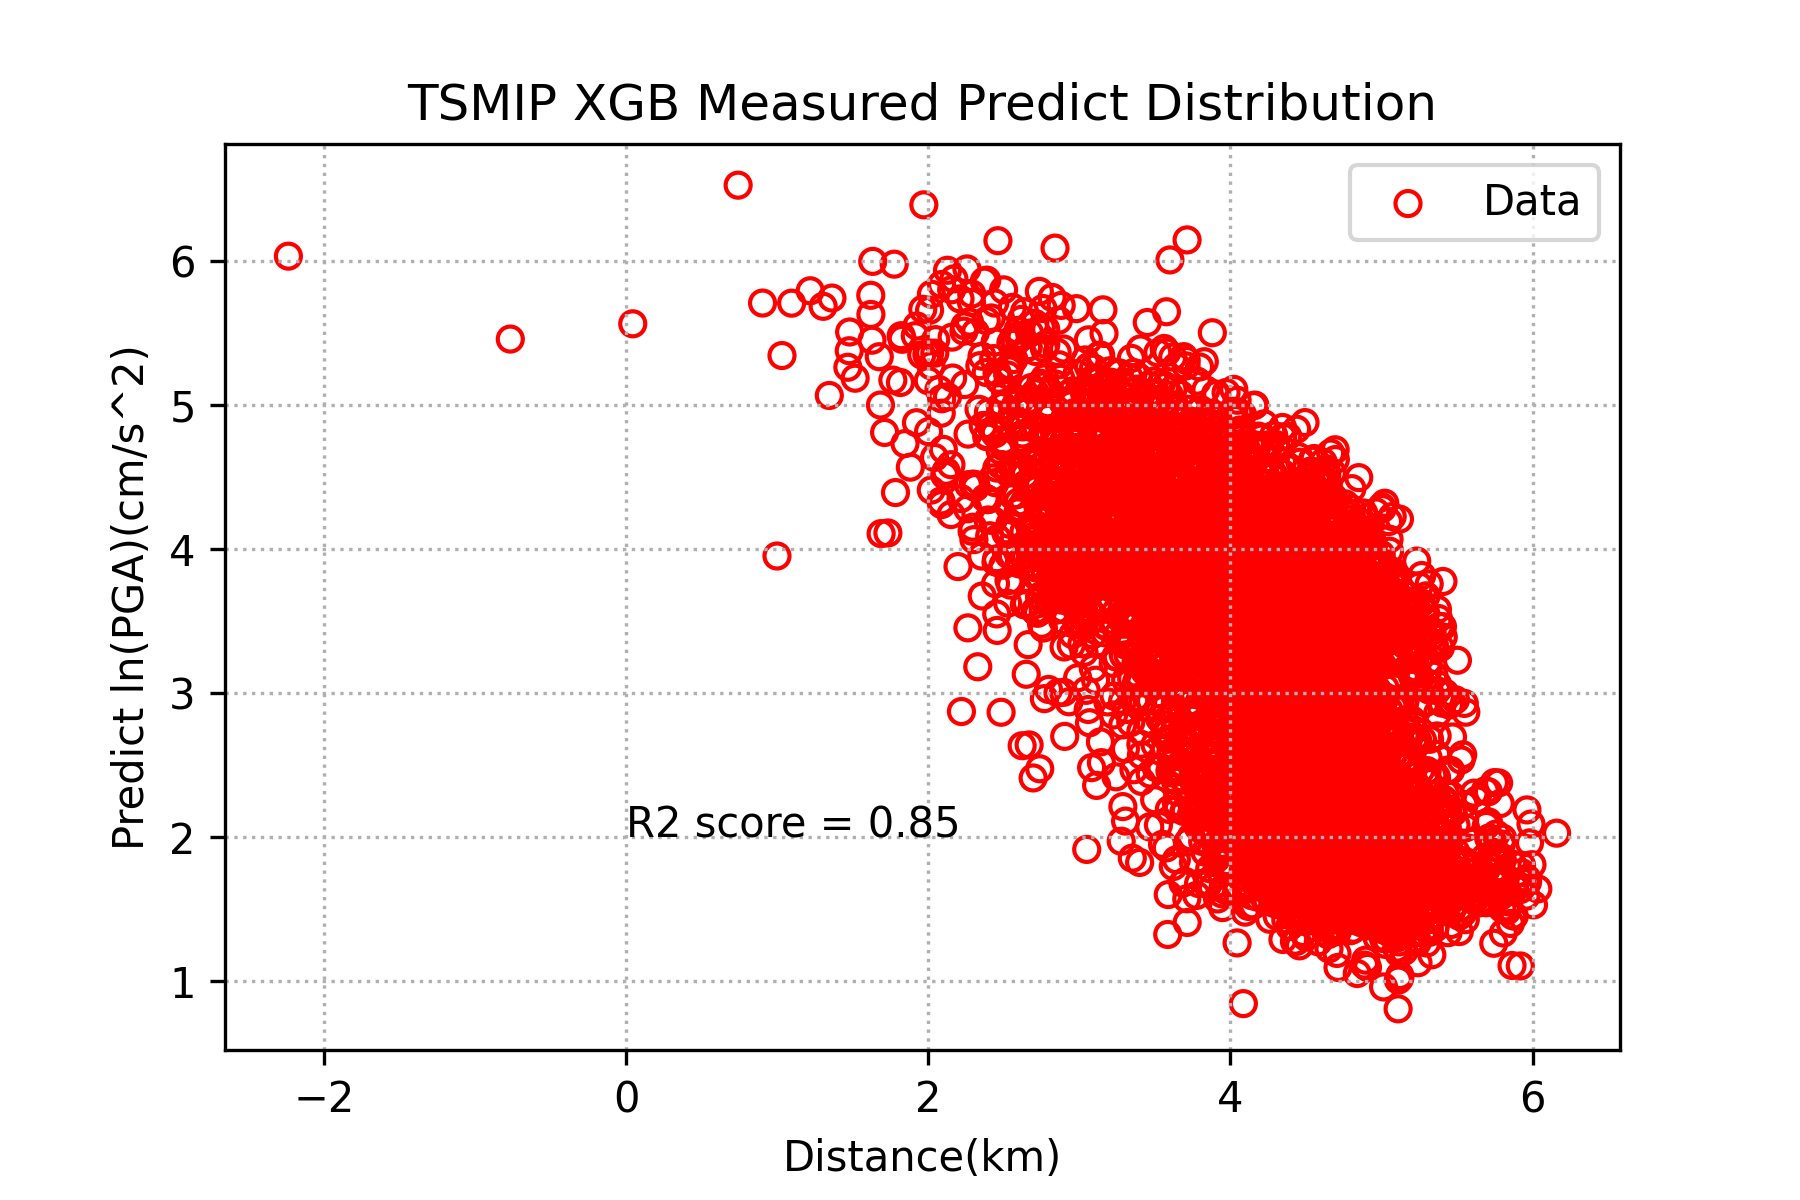
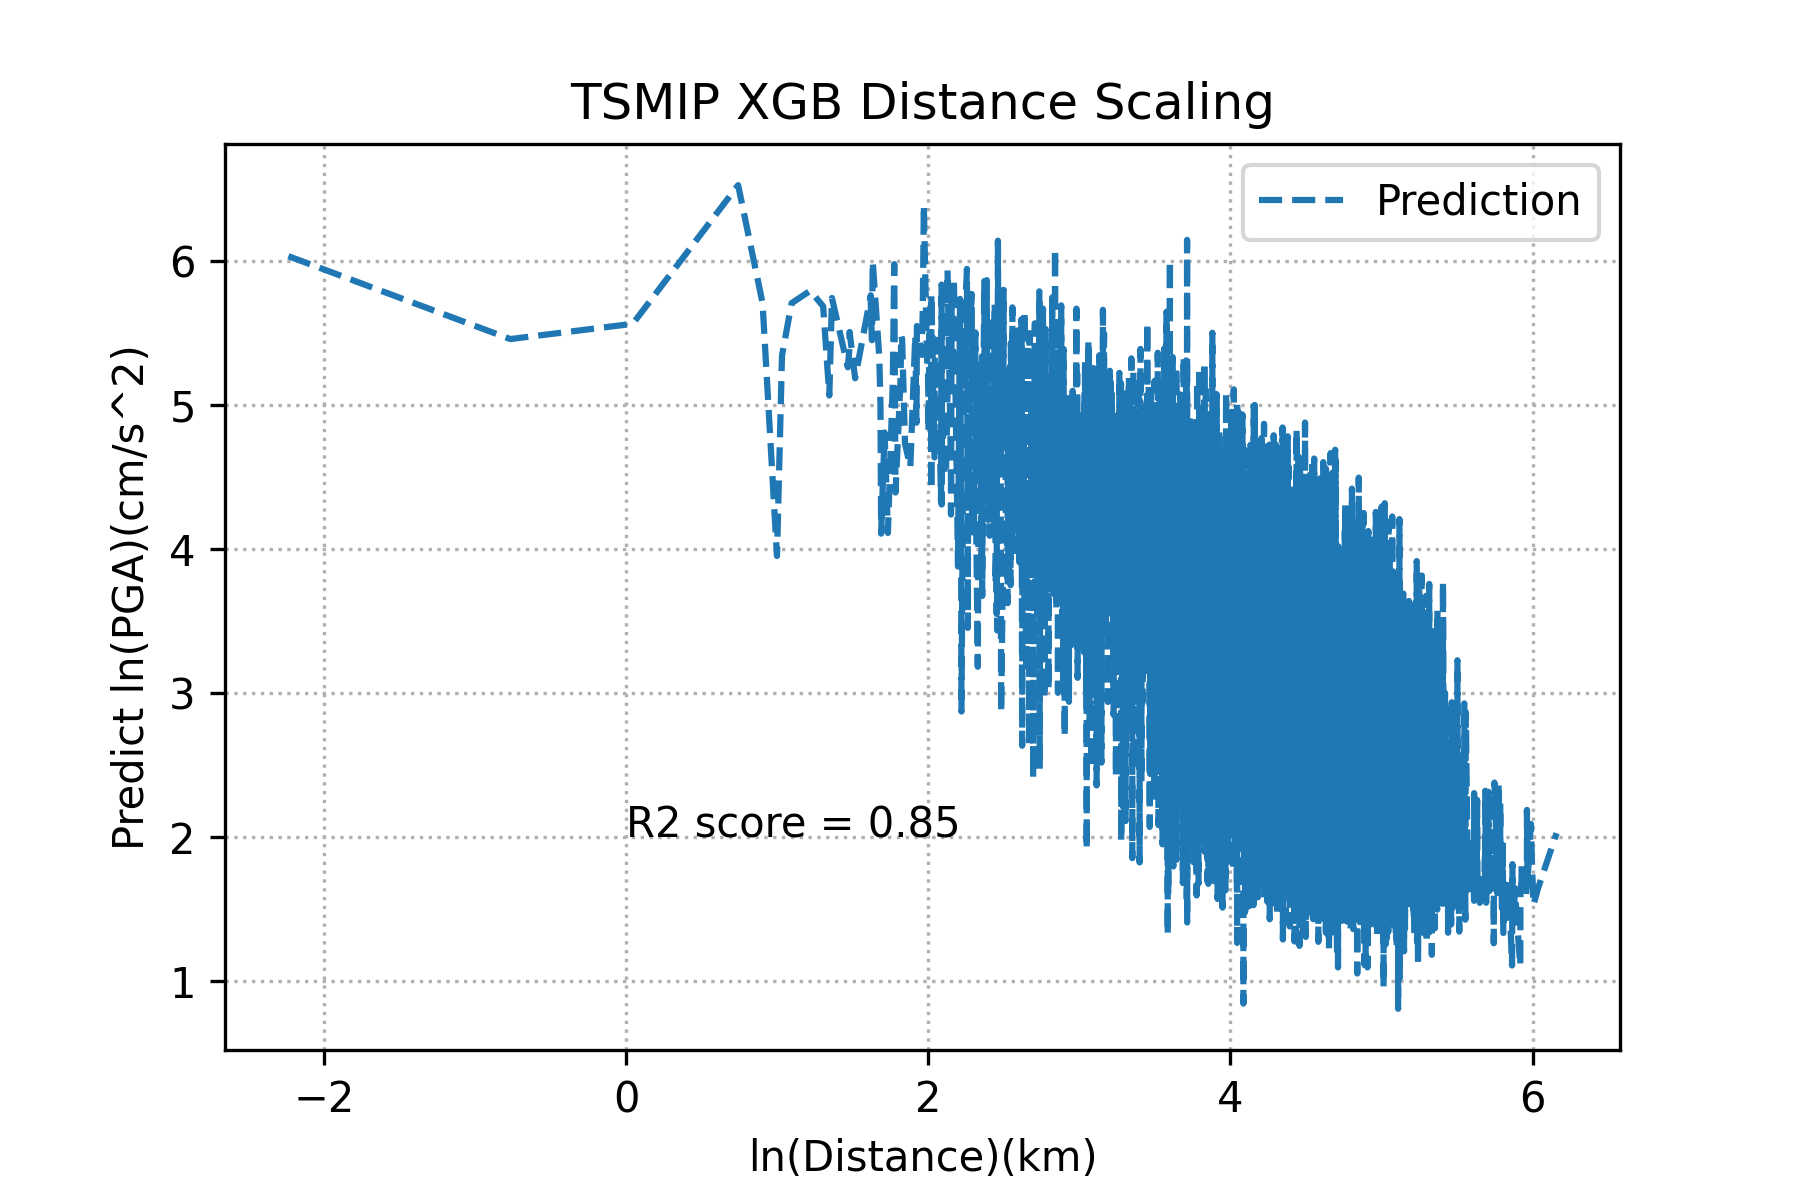
line distance scaling

diff --git a/machine_learning/design_pattern/plot_figure.py b/machine_learning/design_pattern/plot_figure.py
@@ -8,17 +8,20 @@ import sys
 sys.path.append("..")
 from design_pattern.process_train import dataprocess
 
+
 class plot_fig:
+
     def __init__(self, model_name, abbreviation_name, SMOGN_TSMIP):
         self.model_name = model_name
         self.abbreviation_name = abbreviation_name
         self.SMOGN_TSMIP = SMOGN_TSMIP
 
-    def train_test_distribution(self, x_test, y_test, predict_value, fit_time, score):
+    def train_test_distribution(self, x_test, y_test, predict_value, fit_time,
+                                score):
 
-    ######################### trainsubset & testsubset distribution #########################
+        ######################### trainsubset & testsubset distribution #########################
 
-    # 畫 Vs30 and randomForest_predict 關係圖
+        # 畫 Vs30 and randomForest_predict 關係圖
         plt.grid(linestyle=':')
         plt.scatter(x_test[:, 0],
                     y_test,
@@ -32,10 +35,12 @@ class plot_fig:
         plt.ylabel(f'{self.model_name} Predict')
         plt.title(f'{self.model_name}')
         plt.legend()
-        plt.savefig(f'../{self.abbreviation_name}/{self.SMOGN_TSMIP} Vs30-{self.abbreviation_name} Predict.png', dpi=300)
+        plt.savefig(
+            f'../{self.abbreviation_name}/{self.SMOGN_TSMIP} Vs30-{self.abbreviation_name} Predict.png',
+            dpi=300)
         plt.show()
 
-    # 畫 Mw and randomForest_predict 關係圖
+        # 畫 Mw and randomForest_predict 關係圖
         plt.grid(linestyle=':')
         plt.scatter(x_test[:, 1],
                     y_test,
@@ -49,10 +54,12 @@ class plot_fig:
         plt.ylabel(f'{self.model_name} Predict')
         plt.title(f'{self.model_name}')
         plt.legend()
-        plt.savefig(f'../{self.abbreviation_name}/{self.SMOGN_TSMIP} Mw-{self.abbreviation_name} Predict.png', dpi=300)
+        plt.savefig(
+            f'../{self.abbreviation_name}/{self.SMOGN_TSMIP} Mw-{self.abbreviation_name} Predict.png',
+            dpi=300)
         plt.show()
 
-    # 畫 Rrup and randomForest_predict 關係圖
+        # 畫 Rrup and randomForest_predict 關係圖
         plt.grid(linestyle=':')
         plt.scatter(x_test[:, 2],
                     y_test,
@@ -66,14 +73,16 @@ class plot_fig:
         plt.ylabel(f'{self.model_name} Predict')
         plt.title(f'{self.model_name}')
         plt.legend()
-        plt.savefig(f'../{self.abbreviation_name}/{self.SMOGN_TSMIP} Rrup-{self.model_name} Predict.png', dpi=300)
+        plt.savefig(
+            f'../{self.abbreviation_name}/{self.SMOGN_TSMIP} Rrup-{self.model_name} Predict.png',
+            dpi=300)
         plt.show()
 
     def residual(self, x_test, y_test, predict_value, score):
-        
-    ######################### residual #########################
 
-    # 1. 計算Vs30_residual
+        ######################### residual #########################
+
+        # 1. 計算Vs30_residual
         residual = predict_value - y_test
         residual_121 = []
         residual_199 = []
@@ -111,23 +120,27 @@ class plot_fig:
                     facecolors='none',
                     edgecolors='r')  #迴歸線
         plt.scatter([121, 199, 398, 794, 1000], [
-            residual_121_mean, residual_199_mean, residual_398_mean, residual_794_mean,
-            residual_1000_mean
+            residual_121_mean, residual_199_mean, residual_398_mean,
+            residual_794_mean, residual_1000_mean
         ],
                     marker='o',
                     facecolors='none',
                     edgecolors='b')
         plt.plot([121, 121], [
-            residual_121_mean + residual_121_std, residual_121_mean - residual_121_std
+            residual_121_mean + residual_121_std,
+            residual_121_mean - residual_121_std
         ], 'b')
         plt.plot([199, 199], [
-            residual_199_mean + residual_199_std, residual_199_mean - residual_199_std
+            residual_199_mean + residual_199_std,
+            residual_199_mean - residual_199_std
         ], 'b')
         plt.plot([398, 398], [
-            residual_398_mean + residual_398_std, residual_398_mean - residual_398_std
+            residual_398_mean + residual_398_std,
+            residual_398_mean - residual_398_std
         ], 'b')
         plt.plot([794, 794], [
-            residual_794_mean + residual_794_std, residual_794_mean - residual_794_std
+            residual_794_mean + residual_794_std,
+            residual_794_mean - residual_794_std
         ], 'b')
         plt.plot([1000, 1000], [
             residual_1000_mean + residual_1000_std,
@@ -138,11 +151,15 @@ class plot_fig:
         plt.ylim(-3, 3)
         plt.xlabel('Vs30(m/s)')
         plt.ylabel('Residual lnPGA(cm/s^2)')
-        plt.title(f'{self.SMOGN_TSMIP} {self.abbreviation_name} Predict Residual R2 score: %.3f' % (score))
-        plt.savefig(f'../{self.abbreviation_name}/{self.SMOGN_TSMIP} Vs30-{self.abbreviation_name} Predict Residual.png', dpi=300)
+        plt.title(
+            f'{self.SMOGN_TSMIP} {self.abbreviation_name} Predict Residual R2 score: %.3f'
+            % (score))
+        plt.savefig(
+            f'../{self.abbreviation_name}/{self.SMOGN_TSMIP} Vs30-{self.abbreviation_name} Predict Residual.png',
+            dpi=300)
         plt.show()
 
-    # 2. 計算Mw_residual
+        # 2. 計算Mw_residual
         residual = predict_value - y_test
         residual_3_5 = []
         residual_4_5 = []
@@ -176,32 +193,41 @@ class plot_fig:
                     facecolors='none',
                     edgecolors='r')  #迴歸線
         plt.scatter([3.5, 4.5, 5.5, 6.5], [
-            residual_3_5_mean, residual_4_5_mean, residual_5_5_mean, residual_6_5_mean
+            residual_3_5_mean, residual_4_5_mean, residual_5_5_mean,
+            residual_6_5_mean
         ],
                     marker='o',
                     facecolors='none',
                     edgecolors='b')
         plt.plot([3.5, 3.5], [
-            residual_3_5_mean + residual_3_5_std, residual_3_5_mean - residual_3_5_std
+            residual_3_5_mean + residual_3_5_std,
+            residual_3_5_mean - residual_3_5_std
         ], 'b')
         plt.plot([4.5, 4.5], [
-            residual_4_5_mean + residual_4_5_std, residual_4_5_mean - residual_4_5_std
+            residual_4_5_mean + residual_4_5_std,
+            residual_4_5_mean - residual_4_5_std
         ], 'b')
         plt.plot([5.5, 5.5], [
-            residual_5_5_mean + residual_5_5_std, residual_5_5_mean - residual_5_5_std
+            residual_5_5_mean + residual_5_5_std,
+            residual_5_5_mean - residual_5_5_std
         ], 'b')
         plt.plot([6.5, 6.5], [
-            residual_6_5_mean + residual_6_5_std, residual_6_5_mean - residual_6_5_std
+            residual_6_5_mean + residual_6_5_std,
+            residual_6_5_mean - residual_6_5_std
         ], 'b')
         plt.xlim(3, 8)
         plt.ylim(-3, 3)
         plt.xlabel('Mw')
         plt.ylabel('Residual lnPGA(cm/s^2)')
-        plt.title(f'{self.SMOGN_TSMIP} {self.abbreviation_name} Predict Residual R2 score: %.3f' % (score))
-        plt.savefig(f'../{self.abbreviation_name}/{self.SMOGN_TSMIP} Mw-{self.abbreviation_name} Predict Residual.png', dpi=300)
+        plt.title(
+            f'{self.SMOGN_TSMIP} {self.abbreviation_name} Predict Residual R2 score: %.3f'
+            % (score))
+        plt.savefig(
+            f'../{self.abbreviation_name}/{self.SMOGN_TSMIP} Mw-{self.abbreviation_name} Predict Residual.png',
+            dpi=300)
         plt.show()
 
-    # 3. 計算Rrup_residual
+        # 3. 計算Rrup_residual
         residual = predict_value - y_test
         residual_10 = []
         residual_31 = []
@@ -233,38 +259,45 @@ class plot_fig:
                     marker='o',
                     facecolors='none',
                     edgecolors='r')  #迴歸線
-        plt.scatter(
-            [10, 31, 100, 316],
-            [residual_10_mean, residual_31_mean, residual_100_mean, residual_316_mean],
-            marker='o',
-            facecolors='none',
-            edgecolors='b')
-        plt.plot(
-            [10, 10],
-            [residual_10_mean + residual_10_std, residual_10_mean - residual_10_std],
-            'b')
-        plt.plot(
-            [31, 31],
-            [residual_31_mean + residual_31_std, residual_31_mean - residual_31_std],
-            'b')
+        plt.scatter([10, 31, 100, 316], [
+            residual_10_mean, residual_31_mean, residual_100_mean,
+            residual_316_mean
+        ],
+                    marker='o',
+                    facecolors='none',
+                    edgecolors='b')
+        plt.plot([10, 10], [
+            residual_10_mean + residual_10_std,
+            residual_10_mean - residual_10_std
+        ], 'b')
+        plt.plot([31, 31], [
+            residual_31_mean + residual_31_std,
+            residual_31_mean - residual_31_std
+        ], 'b')
         plt.plot([100, 100], [
-            residual_100_mean + residual_100_std, residual_100_mean - residual_100_std
+            residual_100_mean + residual_100_std,
+            residual_100_mean - residual_100_std
         ], 'b')
         plt.plot([316, 316], [
-            residual_316_mean + residual_316_std, residual_316_mean - residual_316_std
+            residual_316_mean + residual_316_std,
+            residual_316_mean - residual_316_std
         ], 'b')
         plt.xscale("log")
         plt.xlim(5 * 1e0, 1e3)
         plt.ylim(-3, 3)
         plt.xlabel('Rrup(km)')
         plt.ylabel('Residual lnPGA(cm/s^2)')
-        plt.title(f'{self.SMOGN_TSMIP} {self.abbreviation_name} Predict Residual R2 score: %.3f' % (score))
-        plt.savefig(f'../{self.abbreviation_name}/{self.SMOGN_TSMIP} Rrup-{self.abbreviation_name} Predict Residual.png', dpi=300)
+        plt.title(
+            f'{self.SMOGN_TSMIP} {self.abbreviation_name} Predict Residual R2 score: %.3f'
+            % (score))
+        plt.savefig(
+            f'../{self.abbreviation_name}/{self.SMOGN_TSMIP} Rrup-{self.abbreviation_name} Predict Residual.png',
+            dpi=300)
         plt.show()
 
     def measured_predict(self, y_test, predict_value, score):
 
-    ###################### 預測PGA和實際PGA #####################
+        ###################### 預測PGA和實際PGA #####################
 
         plt.grid(linestyle=':')
         plt.scatter(y_test, predict_value,marker='o',facecolors='none',edgecolors='r', \
@@ -276,25 +309,32 @@ class plot_fig:
         plt.ylabel('Predict ln(PGA)(cm/s^2)')
         plt.ylim(-5, 10)
         plt.xlim(-5, 10)
-        plt.title(f'{self.SMOGN_TSMIP} {self.abbreviation_name} Measured Predict Distribution')
+        plt.title(
+            f'{self.SMOGN_TSMIP} {self.abbreviation_name} Measured Predict Distribution'
+        )
         plt.text(6, -2, f"R2 score = {round(score,2)}")
         plt.legend()
-        plt.savefig(f'../{self.abbreviation_name}/{self.SMOGN_TSMIP} Measured Predict Comparison.png', dpi=300)
+        plt.savefig(
+            f'../{self.abbreviation_name}/{self.SMOGN_TSMIP} Measured Predict Comparison.png',
+            dpi=300)
         plt.show()
 
     def distance_scaling(self, distance, predict_value, score):
 
-    ###################### PGA隨距離的衰減 #####################
-
+        ###################### PGA隨距離的衰減 #####################
         plt.grid(linestyle=':')
-        plt.scatter(distance, predict_value,marker='o',facecolors='none',edgecolors='r', \
-            label='Data') #迴歸線.
-        plt.xlabel('Distance(km)')
+        plt.plot(distance, predict_value, linestyle="--", label="Prediction")
+        # plt.scatter(distance, predict_value,marker='o',facecolors='none',edgecolors='r', \
+        #     label='Prediction') #迴歸線.
+        plt.xlabel('ln(Distance)(km)')
         plt.ylabel('Predict ln(PGA)(cm/s^2)')
-        plt.title(f'{self.SMOGN_TSMIP} {self.abbreviation_name} Measured Predict Distribution')
+        plt.title(
+            f'{self.SMOGN_TSMIP} {self.abbreviation_name} Distance Scaling')
         plt.text(0, 2, f"R2 score = {round(score,2)}")
         plt.legend()
-        plt.savefig(f'../{self.abbreviation_name}/{self.SMOGN_TSMIP} Distance Scaling.png', dpi=300)
+        plt.savefig(
+            f'../{self.abbreviation_name}/{self.SMOGN_TSMIP} Distance Scaling.png',
+            dpi=300)
         plt.show()
 
 
@@ -309,9 +349,15 @@ if __name__ == '__main__':
     score, feature_importances, fit_time, final_predict = model.training(
         "XGB", result_list[0], result_list[1], result_list[2], result_list[3])
 
-    plot_something = plot_fig("XGBooster","XGB","TSMIP")
+    plot_something = plot_fig("XGBooster", "XGB", "TSMIP")
     # plot_something.train_test_distribution(result_list[1], result_list[3], final_predict, fit_time, score)
     # plot_something.residual(result_list[1], result_list[3], final_predict, score)
     # plot_something.measured_predict(result_list[3], final_predict, score)
-    c = result_list[1].transpose(1,0)
-    plot_something.distance_scaling(c[2], final_predict, score)
+    # 線性的distance_scaling
+    c = result_list[1].transpose(1, 0)
+    concat_data = np.concatenate((np.array([c[2]]), np.array([final_predict])),
+                                 axis=0).transpose(1, 0)
+    concat_data_df = pd.DataFrame(concat_data, columns=['dist', 'predict'])
+    concat_data_df = concat_data_df.sort_values(by=['dist'])
+    concat_data = np.array(concat_data_df).transpose(1, 0)
+    plot_something.distance_scaling(concat_data[0], concat_data[1], score)
